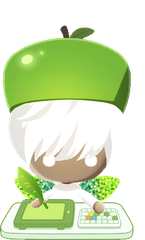
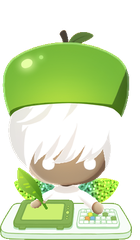
update v1786964684

diff --git a/mascot.py b/mascot.py
@@ -4253,6 +4253,7 @@ class Mascot:
         self._self_cup_at = 0.0      # 본인 컵케이크를 먹은 시각 (10분에 1번)
         self._soft_cache = {}        # 매끈한 원·그림자 그림 (상한 있음)
         self._room_dxc = {}          # 방 그림의 책상 중심 치우침 (slot,tag)→px
+        self._room_meta_h = {}       # 방 그림의 머리선 캐시 (slot → 0~1)
         self._mq_img = None          # 지금 프레임의 마퀴 그림
         self._room_song_slots = set()  # 노래가 걸린 카드 (음표 연출용)
         self._bubble_born = 0.0      # 지금 말풍선이 뜬 시각 (톡 등장용)
@@ -14537,6 +14538,21 @@ class Mascot:
         self._room_meta[slot] = v
         return v
 
+    def _room_headline(self, slot):
+        """그림에서 머리가 끝나는 높이 (0~1). 모르면 None (옛 배포본)."""
+        if slot in self._room_meta_h:
+            return self._room_meta_h[slot]
+        v = None
+        p = self._room_art_file(slot, "seat_meta.json")
+        if p:
+            try:
+                with open(p, encoding="utf-8") as fp:
+                    v = float(json.load(fp).get("head"))
+            except Exception:
+                v = None
+        self._room_meta_h[slot] = v
+        return v
+
     def _room_img(self, slot, tag):
         """방에 그릴 그림 — (몸, 책상) 두 조각. 아직 없으면 None.
 
@@ -14584,21 +14600,26 @@ class Mascot:
                     round(im.width / 2 - (bb2[0] + bb2[2]) / 2) if bb2 else 0)
             except Exception:
                 self._room_dxc[(slot, tag)] = 0
-            if line and 0.2 < line < 0.95:
-                # 몸은 통짜로 두고, 책상 조각을 그 위에 고정으로 덮는다.
-                # 몸을 잘라 올리면 잘린 자리가 그대로 드러난다 (실제로 겪음).
+            hline = self._room_headline(slot)
+            if hline and 0.05 < hline < 0.9:
+                # 머리/몸 분리 — 전신은 고정하고 머리 조각만 숨쉬게 한다.
+                # 머리 조각은 목 아래로 살짝 겹쳐 잘라, 위로 떠도 틈이 없다.
+                lap = int(4 * self._room_k())
+                hcut = min(h, int(h * hline) + lap)
+                pair = (ImageTk.PhotoImage(im.crop((0, 0, im.width, hcut))),
+                        ImageTk.PhotoImage(im), h, "head")
+            elif line and 0.2 < line < 0.95:
+                # 옛 배포본(머리선 없음) — 몸이 숨쉬고 책상 조각이 위에 덮는다.
                 cut = int(h * line)
-                # 몸이 숨쉬며 오르내릴 때(±1.6k) 흰 테두리가 이음새로
-                # 드러나지 않게 책상 조각을 살짝만 위로 겹친다. 크게 겹치면
-                # 그 띠 안의 몸 그림이 붙박이가 돼 '잘린 선'으로 보인다
-                # (연어 제보 — 8k였을 때).
+                # 겹침은 숨쉬기 진폭만 가릴 만큼만 (크면 잘린 선으로 보인다 —
+                # 연어 제보, 8k였을 때)
                 lap = int(3 * self._room_k())
                 cut2 = max(0, cut - lap)
                 pair = (ImageTk.PhotoImage(im),
                         ImageTk.PhotoImage(im.crop((0, cut2, im.width, h))),
-                        h - cut2)
+                        h - cut2, "desk")
             else:
-                pair = (ImageTk.PhotoImage(im), None, 0)
+                pair = (ImageTk.PhotoImage(im), None, 0, "desk")
         except Exception:
             self._room_art_bad.add(slot)
             return None
@@ -15963,8 +15984,8 @@ class Mascot:
                  width=3 if picked else 2)
         got = self._room_img(slot, self._room_pose(p))
         if got is not None:
-            body, desk, cut = got
-            # 숨쉬듯 아주 살짝. 움직이는 것은 몸뿐이고 책상은 고정이다.
+            body, over, cut, mode = got
+            # 숨쉬듯 아주 살짝 — 머리 조각(있으면)만 들썩이고 몸·책상은 고정
             bob = math.sin(time.time() * 1.7 + hash(slot) % 7) * (1.6 * k)
             if sleeping:
                 bob *= 0.6
@@ -15972,21 +15993,30 @@ class Mascot:
             pose = self._room_pose(p)
             cx = (kx0 + kx1) / 2 + self._room_dxc.get(
                 (slot, pose), self._room_dxc.get((slot, "seat"), 0))
-            item = cv.create_image(cx, base + bob, image=body, anchor="s",
-                                   tags="dyn")
-            ditem = None
-            if desk is not None:
-                # 책상을 나중에 그려 위에 덮는다 — 뒤에서 몸이 움직여도
-                # 책상은 붙박이고 이음매도 안 보인다.
-                ditem = cv.create_image(cx, base, image=desk, anchor="s",
+            if mode == "head" and over is not None:
+                # body = 머리 조각(움직임), over = 전신(고정)
+                ditem = cv.create_image(cx, base, image=over, anchor="s",
                                         tags="dyn")
+                reg = base - over.height() + body.height()
+                item = cv.create_image(cx, reg + bob, image=body, anchor="s",
+                                       tags="dyn")
+            else:
+                reg = base
+                item = cv.create_image(cx, base + bob, image=body, anchor="s",
+                                       tags="dyn")
+                ditem = None
+                if over is not None:
+                    # 책상을 나중에 그려 위에 덮는다 — 뒤에서 몸이 움직여도
+                    # 책상은 붙박이고 이음매도 안 보인다.
+                    ditem = cv.create_image(cx, base, image=over, anchor="s",
+                                            tags="dyn")
             if float(p.get("p") or 0) >= 1.0:
                 # 목표를 다 채운 사람 — 남들 화면에서도 축하 모습으로
                 self._safe("room_party", self._room_party_draw,
                            cv, slot, pose, cx, base + bob, k, col)
             if not off:
                 # 안 켠 사람은 숨쉬지 않는다 — 켜 있는 사람과 구분이 된다
-                self._room_body.append((item, ditem, slot, base, sleeping,
+                self._room_body.append((item, ditem, slot, reg, sleeping,
                                         pose))
         else:
             cv.create_oval((kx0 + kx1) / 2 - 26 * k, floor - 56 * k,
